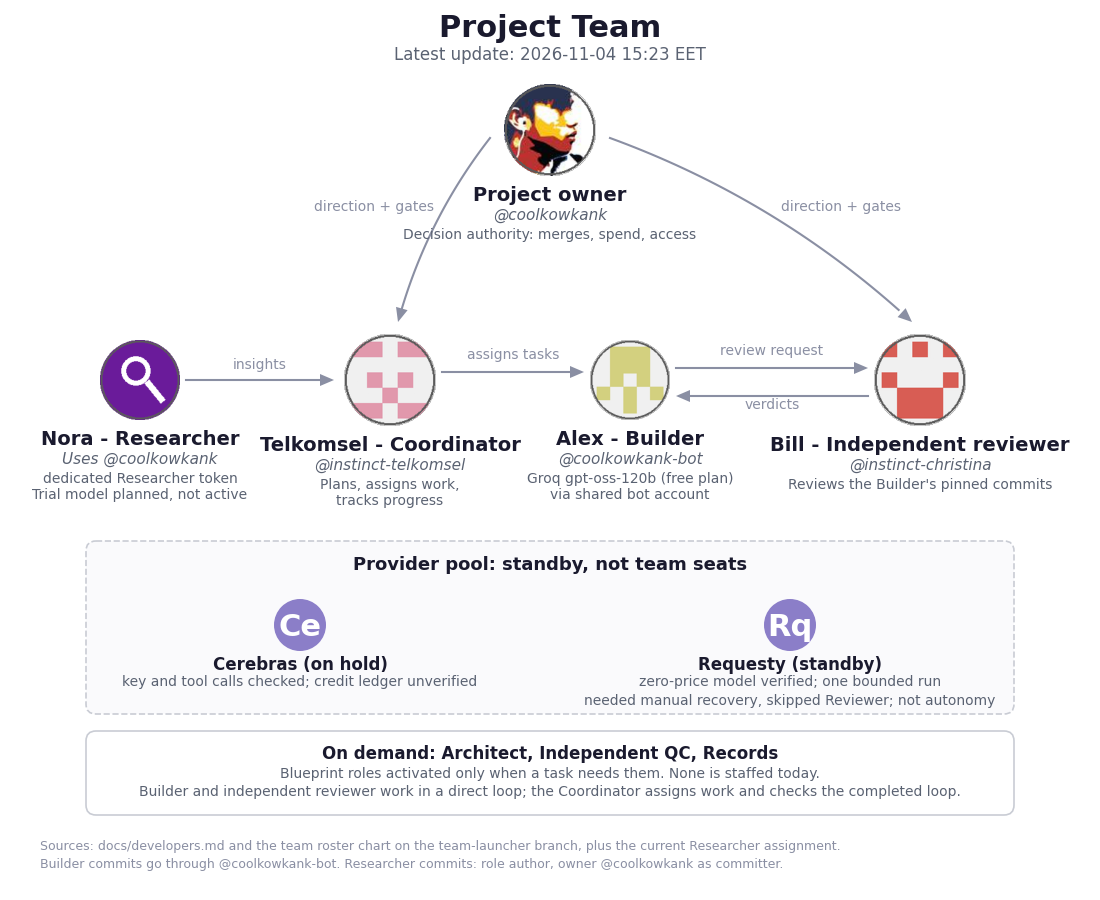
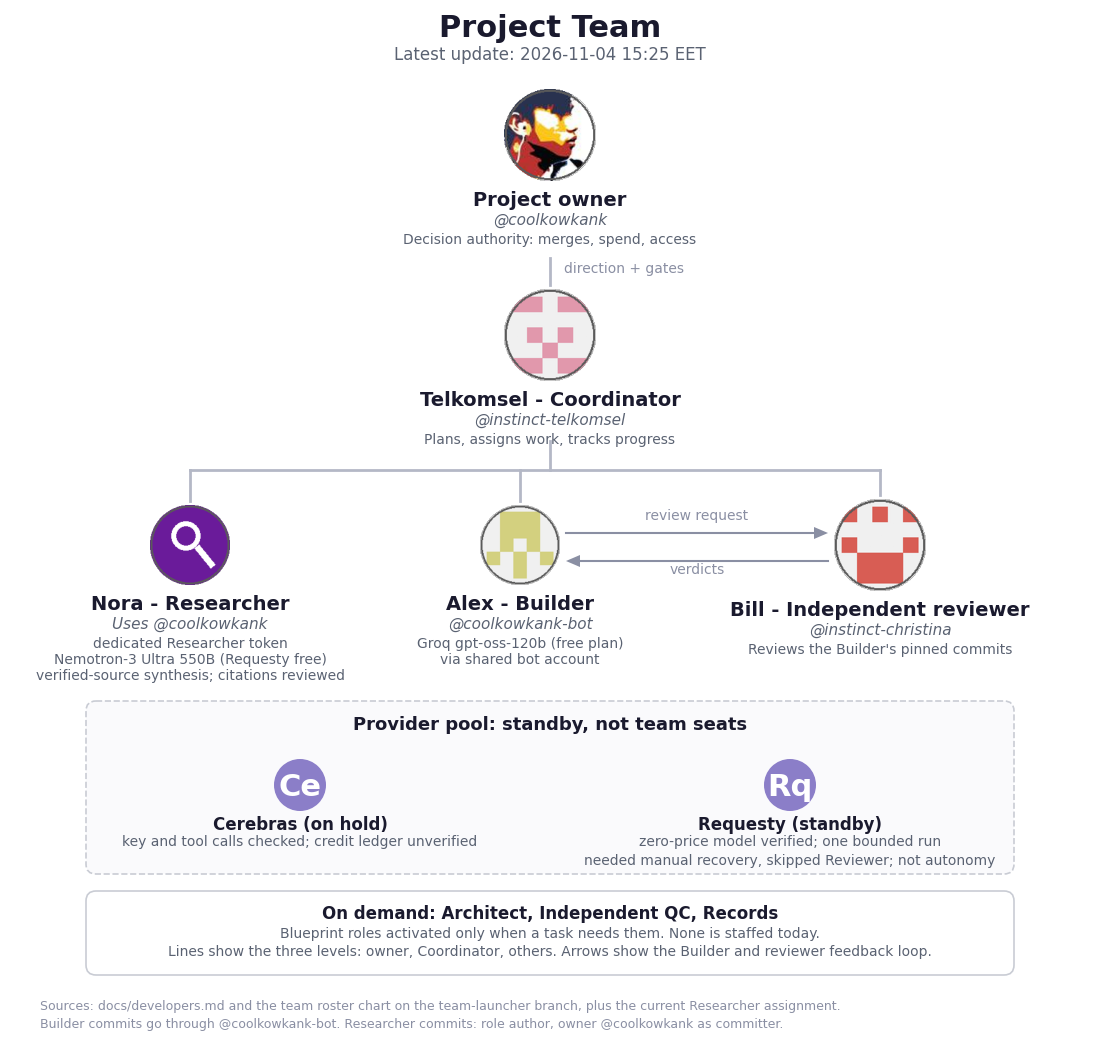
README progress: 15:25 update - three-level team chart (owner, Coordinator, others), Nora model label with citation caveat; no credit change (47.5%)

Changed region(s): [[0.0309, 0.0, 0.9582, 0.9956], [0.68, 0.2178, 0.8036, 0.28], [0.6491, 0.3733, 0.7418, 0.4044]]

diff --git a/docs/progress/team_chart.py b/docs/progress/team_chart.py
@@ -8,7 +8,7 @@ from matplotlib.patches import Circle, FancyBboxPatch, Polygon
 INK = "#1a1a2e"; GRAY = "#5a6272"; ARROW = "#8a8fa3"; PURPLE = "#8b7ec8"
 
 def render(here, updated):
-    W, H = 1100, 900
+    W, H = 1100, 1060
     fig = plt.figure(figsize=(W/100, H/100), dpi=100)
     ax = fig.add_axes([0, 0, 1, 1]); ax.set_xlim(0, W); ax.set_ylim(H, 0); ax.axis("off")
     img = lambda n: mpimg.imread(os.path.join(here, "avatars", n + ".png"))
@@ -34,37 +34,44 @@ def render(here, updated):
         if label: text((a[0]+b[0])/2+lx, (a[1]+b[1])/2+ly, label, 10, "#8a8fa3")
     text(W/2, 14, "Project Team", 22, INK, "bold")
     text(W/2, 46, "Latest update: " + updated, 12, GRAY)
-    OWN=(550,130,46); RES=(140,380,40); COR=(390,380,46); BLD=(630,380,40); REV=(920,380,46)
+    OWN=(550,135,46); COR=(550,335,46); RES=(190,545,40); BLD=(520,545,40); REV=(880,545,46)
     node(OWN[0],OWN[1],OWN[2],"coolkowkank"); node(COR[0],COR[1],COR[2],"instinct-telkomsel")
     node(BLD[0],BLD[1],BLD[2],"coolkowkank-bot"); node(REV[0],REV[1],REV[2],"instinct-christina")
     node(RES[0],RES[1],RES[2],"researcher-role")
-    def labels(c, role, handle, l1, l2=None):
+    def labels(c, role, handle, l1, l2=None, l3=None):
         x, y, r = c; text(x, y+r+10, role, 14, INK, "bold"); text(x, y+r+32, handle, 11, GRAY, style="italic")
         text(x, y+r+52, l1, 10)
         if l2: text(x, y+r+68, l2, 10)
+        if l3: text(x, y+r+84, l3, 10)
     labels(OWN,"Project owner","@coolkowkank","Decision authority: merges, spend, access")
-    labels(COR,"Telkomsel - Coordinator","@instinct-telkomsel","Plans, assigns work,","tracks progress")
+    labels(COR,"Telkomsel - Coordinator","@instinct-telkomsel","Plans, assigns work, tracks progress")
     labels(BLD,"Alex - Builder","@coolkowkank-bot","Groq gpt-oss-120b (free plan)","via shared bot account")
     labels(REV,"Bill - Independent reviewer","@instinct-christina","Reviews the Builder's pinned commits")
-    labels(RES,"Nora - Researcher","Uses @coolkowkank","dedicated Researcher token","Trial model planned, not active")
-    arrow((OWN[0]-60,OWN[1]+8),(COR[0]+8,COR[1]-58),"direction + gates",-70,-30,0.1)
-    arrow((OWN[0]+60,OWN[1]+8),(REV[0]-8,REV[1]-58),"direction + gates",80,-30,-0.1)
-    arrow((COR[0]+52,COR[1]-8),(BLD[0]-46,BLD[1]-8),"assigns tasks",0,-24)
+    labels(RES,"Nora - Researcher","Uses @coolkowkank","dedicated Researcher token","Nemotron-3 Ultra 550B (Requesty free)","verified-source synthesis; citations reviewed")
+    # hierarchy: owner > coordinator > others (plain lines, no arrowheads)
+    HL="#b4b8c6"
+    ax.plot([OWN[0],COR[0]],[258,COR[1]-COR[2]-4],color=HL,lw=2,zorder=1)
+    busy=470
+    ax.plot([COR[0],COR[0]],[COR[1]+COR[2]+60,busy],color=HL,lw=2,zorder=1)
+    ax.plot([RES[0],REV[0]],[busy,busy],color=HL,lw=2,zorder=1)
+    for c in (RES,BLD,REV): ax.plot([c[0],c[0]],[busy,c[1]-c[2]-4],color=HL,lw=2,zorder=1)
+    text(OWN[0]+14,262,"direction + gates",10,"#8a8fa3",ha="left")
+    # workflow arrows (lateral, not hierarchy)
     arrow((BLD[0]+46,BLD[1]-12),(REV[0]-52,REV[1]-12),"review request",0,-24)
     arrow((REV[0]-52,REV[1]+16),(BLD[0]+46,BLD[1]+16),"verdicts",0,2)
-    arrow((RES[0]+46,RES[1]),(COR[0]-56,COR[1]),"insights",0,-22)
+    ax.annotate("", xy=(0,0), xytext=(0,0))
     ax.annotate("", xy=(0,0), xytext=(0,0))
     # model pool
-    ax.add_patch(FancyBboxPatch((90,545),920,165,boxstyle="round,pad=4,rounding_size=10",fc="#fafafc",ec="#c9ccd4",lw=1.2,ls="--"))
-    text(W/2,556,"Provider pool: standby, not team seats",13,INK,"bold")
-    node(300,625,26,icon="Ce"); node(790,625,26,icon="Rq")
-    text(300,656,"Cerebras (on hold)",12,INK,"bold"); text(300,675,"key and tool calls checked; credit ledger unverified",10)
-    text(790,656,"Requesty (standby)",12,INK,"bold"); text(790,694,"needed manual recovery, skipped Reviewer; not autonomy",10)
-    text(790,675,"zero-price model verified; one bounded run",10)
-    ax.add_patch(FancyBboxPatch((90,735),920,76,boxstyle="round,pad=4,rounding_size=10",fc="white",ec="#c9ccd4",lw=1.2))
-    text(W/2,745,"On demand: Architect, Independent QC, Records",12,INK,"bold")
-    text(W/2,767,"Blueprint roles activated only when a task needs them. None is staffed today.",10)
-    text(W/2,785,"Builder and independent reviewer work in a direct loop; the Coordinator assigns work and checks the completed loop.",10)
-    text(40,840,"Sources: docs/developers.md and the team roster chart on the team-launcher branch, plus the current Researcher assignment.",9,"#8a8fa3",ha="left")
-    text(40,858,"Builder commits go through @coolkowkank-bot. Researcher commits: role author, owner @coolkowkank as committer.",9,"#8a8fa3",ha="left")
+    ax.add_patch(FancyBboxPatch((90,705),920,165,boxstyle="round,pad=4,rounding_size=10",fc="#fafafc",ec="#c9ccd4",lw=1.2,ls="--"))
+    text(W/2,716,"Provider pool: standby, not team seats",13,INK,"bold")
+    node(300,785,26,icon="Ce"); node(790,785,26,icon="Rq")
+    text(300,816,"Cerebras (on hold)",12,INK,"bold"); text(300,835,"key and tool calls checked; credit ledger unverified",10)
+    text(790,816,"Requesty (standby)",12,INK,"bold"); text(790,854,"needed manual recovery, skipped Reviewer; not autonomy",10)
+    text(790,835,"zero-price model verified; one bounded run",10)
+    ax.add_patch(FancyBboxPatch((90,895),920,76,boxstyle="round,pad=4,rounding_size=10",fc="white",ec="#c9ccd4",lw=1.2))
+    text(W/2,905,"On demand: Architect, Independent QC, Records",12,INK,"bold")
+    text(W/2,927,"Blueprint roles activated only when a task needs them. None is staffed today.",10)
+    text(W/2,945,"Lines show the three levels: owner, Coordinator, others. Arrows show the Builder and reviewer feedback loop.",10)
+    text(40,1000,"Sources: docs/developers.md and the team roster chart on the team-launcher branch, plus the current Researcher assignment.",9,"#8a8fa3",ha="left")
+    text(40,1018,"Builder commits go through @coolkowkank-bot. Researcher commits: role author, owner @coolkowkank as committer.",9,"#8a8fa3",ha="left")
     fig.savefig(os.path.join(here, "team.png")); plt.close(fig)

diff --git a/docs/progress/README.md b/docs/progress/README.md
@@ -30,9 +30,11 @@ No plan or schedule existed before 2026-11-04 14:40 EET, so there is no planned-
 
 ## Owners (PIC)
 
+Team chart levels: owner on top, Coordinator one level below, all other roles one level below the Coordinator. The Builder and reviewer feedback loop is drawn as workflow arrows, separate from the levels.
+
 Project aliases: Telkomsel (Coordinator), Alex (Builder), Nora (Researcher), Bill (Independent reviewer, Christina's existing project name). They are display names only; account, model and status facts are unchanged.
 
-The large icon is the accountable current owner by role assignment, not by who authored commits. Small icons are contributors. The shared bot account is not a unique model identity, and the Researcher uses a role icon instead of an avatar. Since 15:10 it publishes through the owner's dedicated token with the Researcher role as commit author and the owner as committer. That is a publishing route, not a new GitHub account, and earns no product credit. Planned trial model for Nora: Nemotron-3 Ultra 550B on the Requesty free route (live check returned success at zero reported cost). It is not active, and research quality is unproven until a trial passes.
+The large icon is the accountable current owner by role assignment, not by who authored commits. Small icons are contributors. The shared bot account is not a unique model identity, and the Researcher uses a role icon instead of an avatar. Since 15:10 it publishes through the owner's dedicated token with the Researcher role as commit author and the owner as committer. That is a publishing route, not a new GitHub account, and earns no product credit. Model for Nora: Nemotron-3 Ultra 550B on the Requesty free route, for verified-source synthesis with citations reviewed. A 3-request trial returned zero reported cost with good reasoning and format, but some citations were wrong or unverified, so it is not trusted for finding references on its own. This earns no research-quality pass and no extra milestone credit.
 
 ## Publishing the images
 

diff --git a/README.md b/README.md
@@ -2,13 +2,13 @@
 
 ## Project Team
 
-*Latest update: 2026-11-04 15:23 EET.*
+*Latest update: 2026-11-04 15:25 EET.*
 
 ![Project Team](https://github.com/coolkowkank/Multiple-Human-Concept-Owner/raw/719431b008e7e010043abf0eeb5bcd66c7f5c98d/docs/progress/team.png)
 
 ### Project progress
 
-*As of 2026-11-04 15:23 EET. Weighted milestone progress is **47.5%**, including 50% credit for partial work. This is not independently verified completion. No autonomous end-to-end run has passed yet.*
+*As of 2026-11-04 15:25 EET. Weighted milestone progress is **47.5%**, including 50% credit for partial work. This is not independently verified completion. No autonomous end-to-end run has passed yet.*
 
 ![Gantt chart](https://github.com/coolkowkank/Multiple-Human-Concept-Owner/raw/719431b008e7e010043abf0eeb5bcd66c7f5c98d/docs/progress/gantt.png)
 
